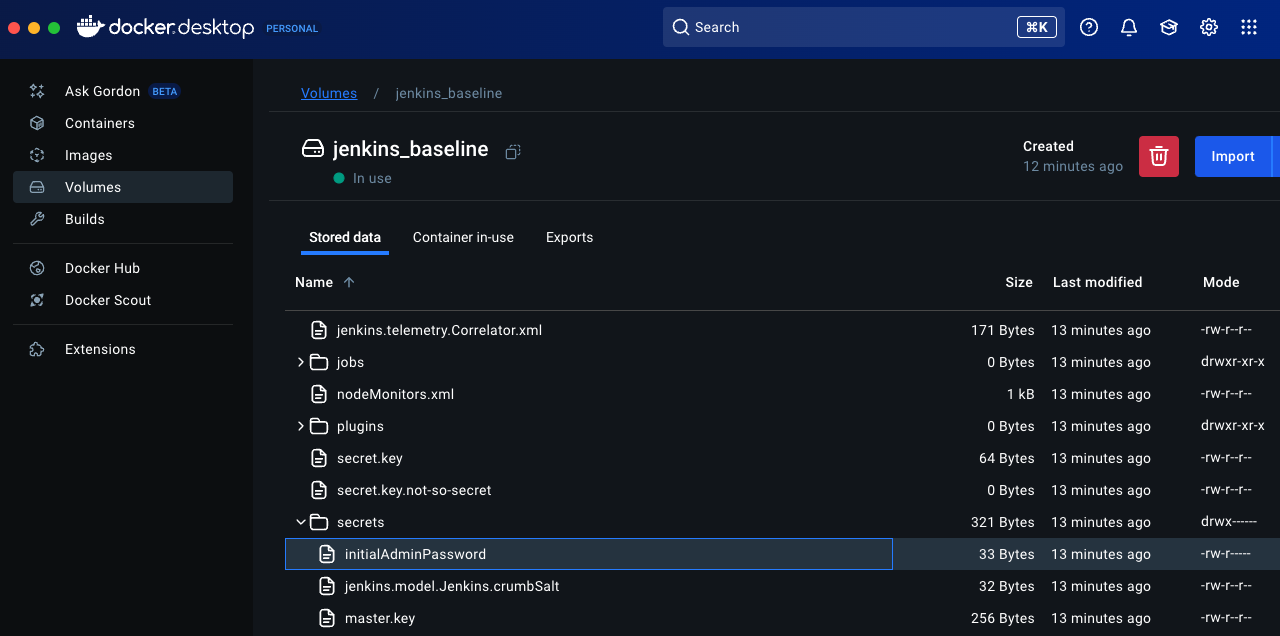
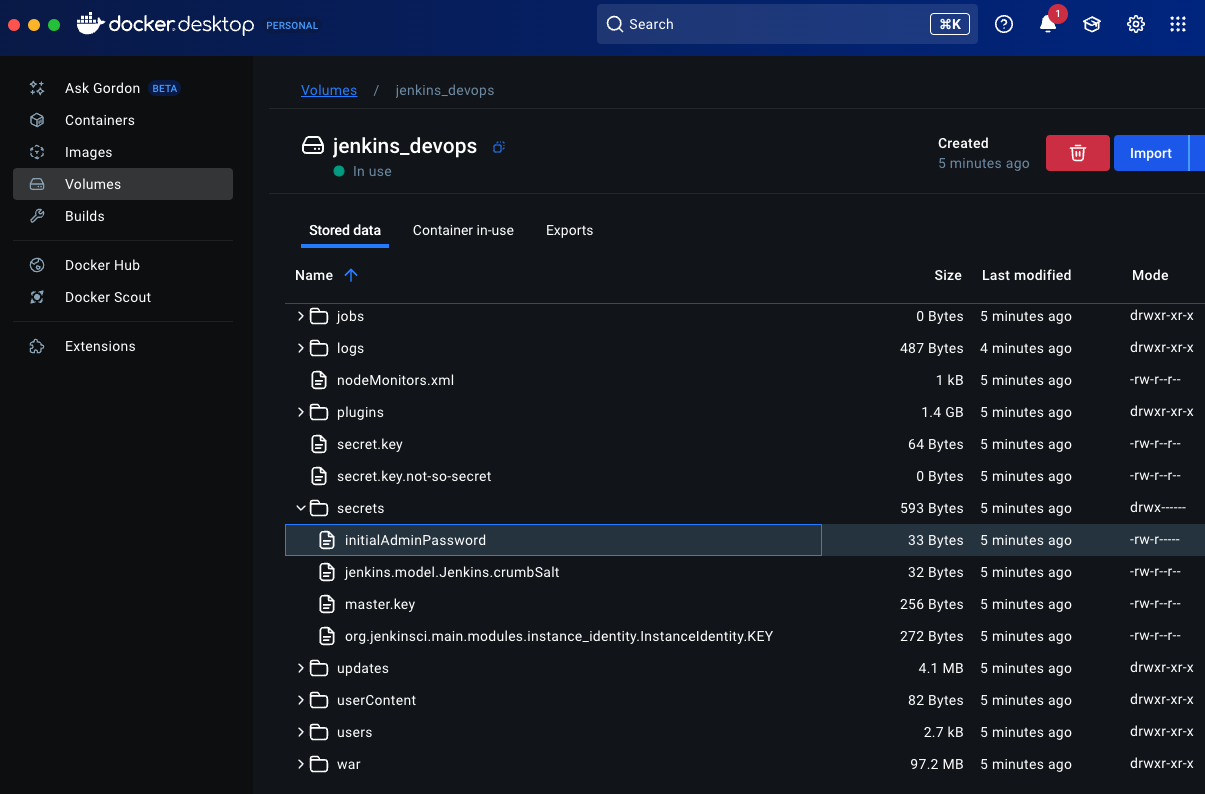
updated instruction images

diff --git a/README.md b/README.md
@@ -12,6 +12,142 @@ This is not ready for production but is intended for educational purposes.
 
 - Deploy containers from the resulting local Jenkins image to be used for various projects "as required".
 
+
+[FUTURE]
+
+- Switch to using the Jenkins Configuration as a Code (JCasC) workflow to support automated deployment including administrator accounts.
+
+- Automate the creation of the docker image, installation of desired software applications.
+
+- Inspect the docker image for vulnerabilities and report the results.
+
+- Once the scanned image is approved for actual use, upload to local or remote repository within a pipeline for use by other personnel in your team or group projects.
+
+# Build Workflow
+1. Clone or download the ZIP file of this repository. Remember to set the destination file name if you use the git clone process. In this example the folder is named <jenkins_devops>. So, what we need to do is access this volume and access our password in the following path /var/jenkins_home/secrets/initialAdminPassword. 
+
+ Move into the directory you named.
+
+3. Review the Dockerfile and docker-compose.yaml files to get an understanding of
+what is actually expected to occur when running the build process.
+
+4. Revise the docker-compose.yaml (if desired) to what you want your Jenkins image to be named. For example, jenkins-devops. [NOTE:] You need to review the plugins.txt file to make sure you have *only* the plugins you want installed. Otherwise you will have plugins that you may not need and it will create a very large image (approximately 4 GB). The base jenkins images is around 800MB. This project will create a  much larger image due to software and plugin installation. The plugins alone takeup 1.5 GB of space.
+
+As an alternative you can comment out the section of the Dockerfile that pulls the plugins and install plugins manually. 
+
+5. Once you have the configuration files setup as you want, then run the following command to build your jenkins image file.
+
+docker-compose build
+
+Note: You should see an output similar to below:
+
+
+![docker-compose-build-picture](./graphics/docker-compose-build-jenkins-screenshot.png)
+
+6. To verify your image was created you should review the images that are on your build system
+and verify that the file name you put in the configuration file is actually present.
+
+[NOTE:] This image can be used "as-is" for any project once you are satisfied with the results.
+
+docker images
+
+![docker-images-list-picture](./graphics/docker-images-list-screenshot.png)
+
+7. Create an actual container from the jenkins-devops image. We use docker compose "up" versus the usual <docker run > workflow.
+
+- This first run we will just run <docker compose up> without the <> to just verify we can actually deploy a container from our jenkins image file. Later we will run this <detached> in order to free up our terminal/console. For the initial run it will create a volume named docker_devops. After the first run (unless you have deleted the docker_devops volume) your container will use this folder each time you run the docker compose up command.
+
+docker compose up
+
+![docker-compose-up-picture](./graphics/docker-compose-up-screenshot.png)
+
+8. Now we connect to the running docker image. It should be listening on the ports you set in your configuration file.
+
+*IF* this is the first run in this home directory then you should see the initial password for the jenkins admin user.
+
+![docker-initial-run-cmdline-picture](./graphics/jenkins-initial-password-screenshot.png)
+
+If the password is not displayed, you will need to go to the actual volume that the jenkins containers <home directory> is running on and look in the file using a text editor or the <cat> command line application to view the password.
+
+To find your existing docker volumes run the following command:
+
+docker volume ls
+
+![docker-volume-list-picture](./graphics/docker-volume-list-screenshot.png)
+
+In this example the volume we need to access is named <jenkins_devops>.
+
+] If you are using Docker Desktop, then you can access the file via the GUI:
+
+![docker-desktop-gui-folder-access-picture](./graphics/docker-desktop-access-secrets-folder-screenshot.png)
+
+In the docker desktop application you will highlight the file you want to look at and then select for it to be downloaded to your local system.
+
+![docker-desktop-gui-save-as-picture](./graphics/docker-desktop-save-as-screenshot.png)
+
+If you are running this process on a remote virtual machine that has no GUI (e.g. AWS EC2, Linode) then to accomplish the same results we run the following commands:
+
+- Get the running image name of your jenkins container.
+docker ps
+
+![docker-ps-picture](./graphics/docker-ps-screenshot.png)
+
+- Access the running container as an existing user on the container. You should be able to access the container as user
+jenkins and read the initial password file.
+
+docker exec -it --user jenkins <CONTAINER ID> bash
+
+In this example our CONTAINER ID is 161c86ed8bd5 so the command I run is:
+ docker exec -it --user jenkins 161c86ed8bd5 bash
+
+You should see a console window like below:
+jenkins@161c86ed8bd5:/$
+
+- Access the initial password using the <cat> command:
+cat /var/jenkins_home/secrets/initialAdminPassword 
+
+Make a note of the password that shows in the command line.
+
+9. Access the Jenkins web service via a web browser and start the initial setup of Jenkins.
+
+Jenkins should be listening on the ports that are in your configuration file. In this example the jenkins service is listening on the localhost network address of 127.0.0.1 on port 8080. If you changed these settings input the IP address and/or ports you have in your configuration file.
+
+If you are using Docker Desktop, then you can select the URL in the GUI of your running container.
+
+![docker-desktop-container-url-picture](./graphics/docker-desktop-container-url-screenshot.png)
+
+10. At the Jenkins initial setup page input the documented initial admin password and select "continue".
+
+![jenkins-initial-admin-page](./graphics/jenkins-initial-setup-screenshot.png)
+
+11. Select the Customize Jenkins Install suggested plugins. You will be taken to the Getting Started page. Depending on your docker host, it may take some time for the plugins to get installed.
+
+![customize-jenkins-picture](./graphics/customize-jenkins-screenshot.png)
+
+12. Input credentials for your First Admin User, then select "Save and Continue". Since the objective is to be able to deploy a docker image based off this container, you will (ONLY) use a set of default credentials for the initial admin account. 
+
+[2ND_OPTION] You can select skip and continue as admin. 
+
+If you select to not create a new admin account, your username will be "admin" (without quotes) and the initial password that was created by default will be the password. 
+
+Which means you will need to access the Jenkins container on first deployment to obtain that password in the following location /var/jenkins_home/secrets/initialAdminPassword. Then you will need to login to Jenkins and change the password to a new *secure* password.
+
+![jenkins-create-1st-admin-picture](./graphics/jenkins-create-first-admin-screenshot.png)
+
+13. Set the URL that Jenkins will run on. If this is on your local system, then it will be (http://localhost:8080/). If it is running on a remote system, then set it to that address. Once you have the address input, select Save and Finish.
+
+* In this example we use the localhost address.
+
+![jenkins-instance-config-picture](./graphics/jenkins-instance-config-screenshot.png)
+
+13. At this point you should see the Getting Started page. Select Start using Jenkins.
+
+![jenkins-getting-started-picture](./graphics/jenkins-is-ready-screenshot.png)
+
+14. At this stage you should see the Jenkins dashboard. We now have a basic running Jenkins docker container. From this point you can follow any published guide or your own procedures to advance the Jenkins deployment with various software and plugins.
+
+I have included one of my guides that can be used to help you setup a Jenkins container with CI/CD functions including Ansible, SonarQube, NodeJS, Terraform, Aqua, Amazon Web Service, Google Cloud and Kubernetes plugins. It also walks your through a basic pipeline setup.
+
 # Prerequisites
 Docker Engine or Docker Desktop installed on the system you intend to run this project.
 
